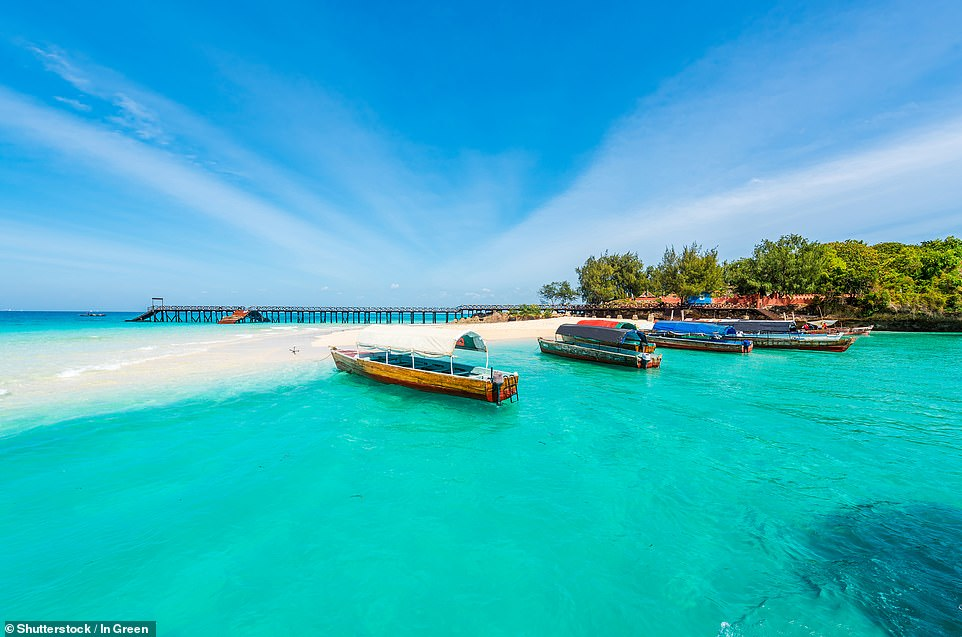
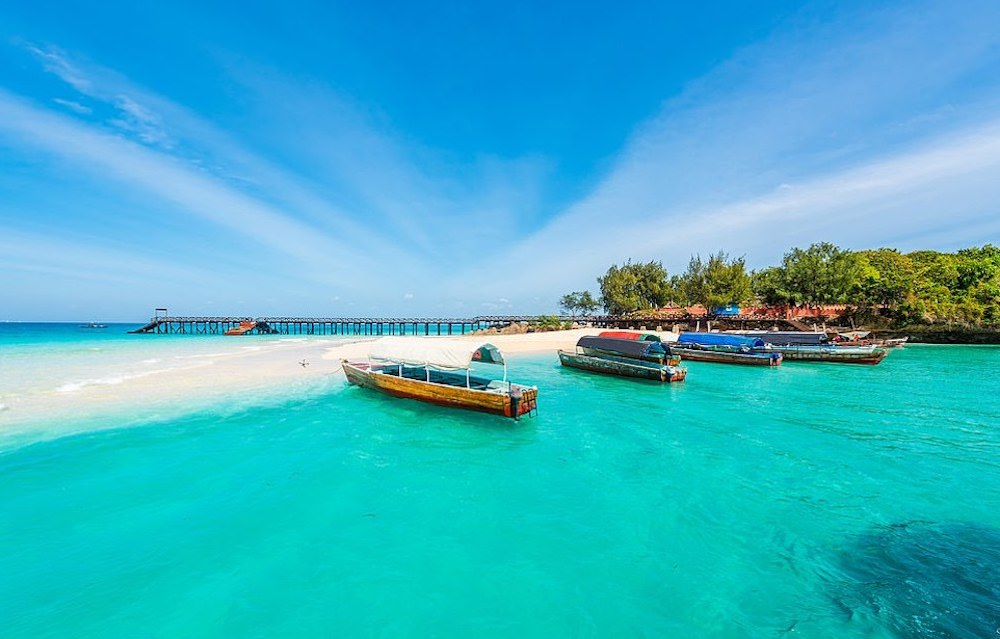
adjust sizing and position of carousel-items

diff --git a/index.html b/index.html
@@ -56,19 +56,19 @@
         <!--Slides-->
         <div class="carousel-inner" role="listbox">
             <div class="carousel-item active">
-                <img src="assets/media/zanzibar-slide-one.jpg" class="d-block w-100" alt="First slide">
+                <img src="assets/media/zanzibar-slide-one.jpg" class="d-block h-auto w-100" alt="First slide">
                 <div class="carousel-caption d-none d-md-block">
                     <p>Everything you need for a truely magical Zanzibar experience...</p>
                 </div>
             </div>
             <div class="carousel-item">
-                <img src="assets/media/zanzibar-slide-two.jpg" class="d-block w-100" alt="Second slide">
+                <img src="assets/media/zanzibar-slide-two.jpg" class="d-block h-auto w-100" alt="Second slide">
                 <div class="carousel-caption d-none d-md-block">
                     <p>Everything you need for a truely magical Zanzibar experience...</p>
                 </div>
             </div>
             <div class="carousel-item">
-                <img src="assets/media/zanzibar-slide-three.jpg" class="d-block w-100" alt="Third slide">
+                <img src="assets/media/zanzibar-slide-three.jpg" class="d-block h-auto w-100" alt="Third slide">
                 <div class="carousel-caption d-none d-md-block">
                     <p>Everything you need for a truely magical Zanzibar experience...</p>
                 </div>

diff --git a/assets/css/style.css b/assets/css/style.css
@@ -6,6 +6,7 @@ body {
 
 .navbar {
     text-transform: uppercase;
+    
 }
 
 @media (min-width: 576px) {
@@ -26,6 +27,18 @@ body {
 }
 
 /*Carousel*/
+
+#landing-slideshow {
+   
+}
+
+@media (min-width: 576px) {
+    .carousel-inner .carousel-item {
+        width: 100vw;
+        height: 100vh;
+        margin: 0;
+    }
+}
 
 /*Containers*/
 
